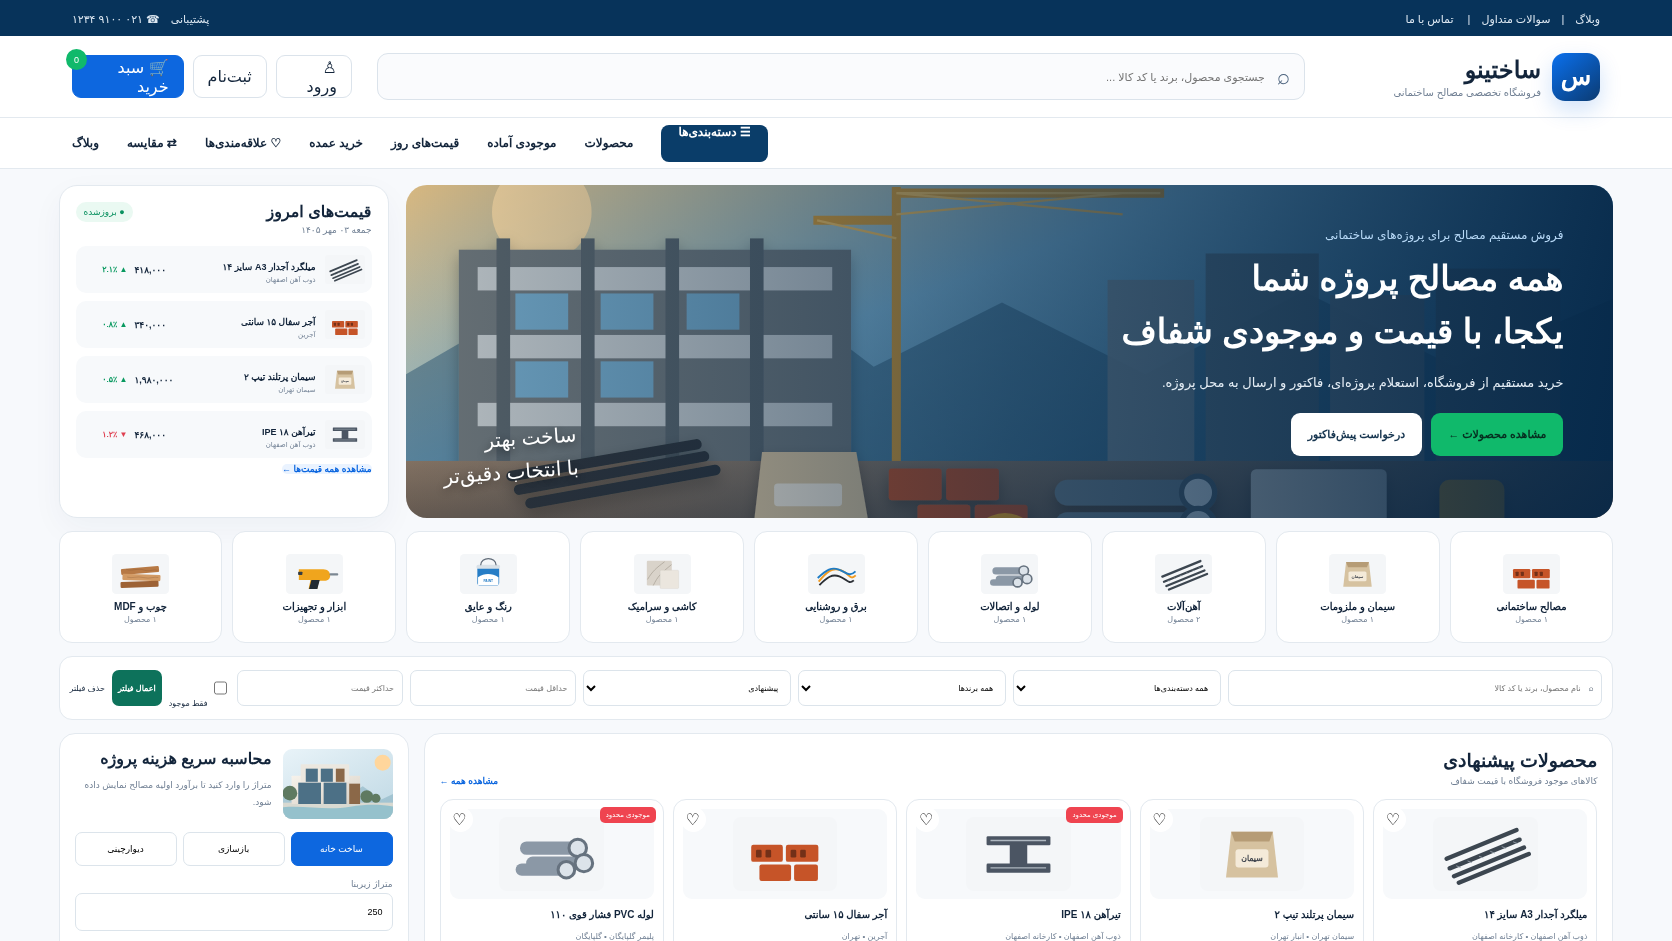
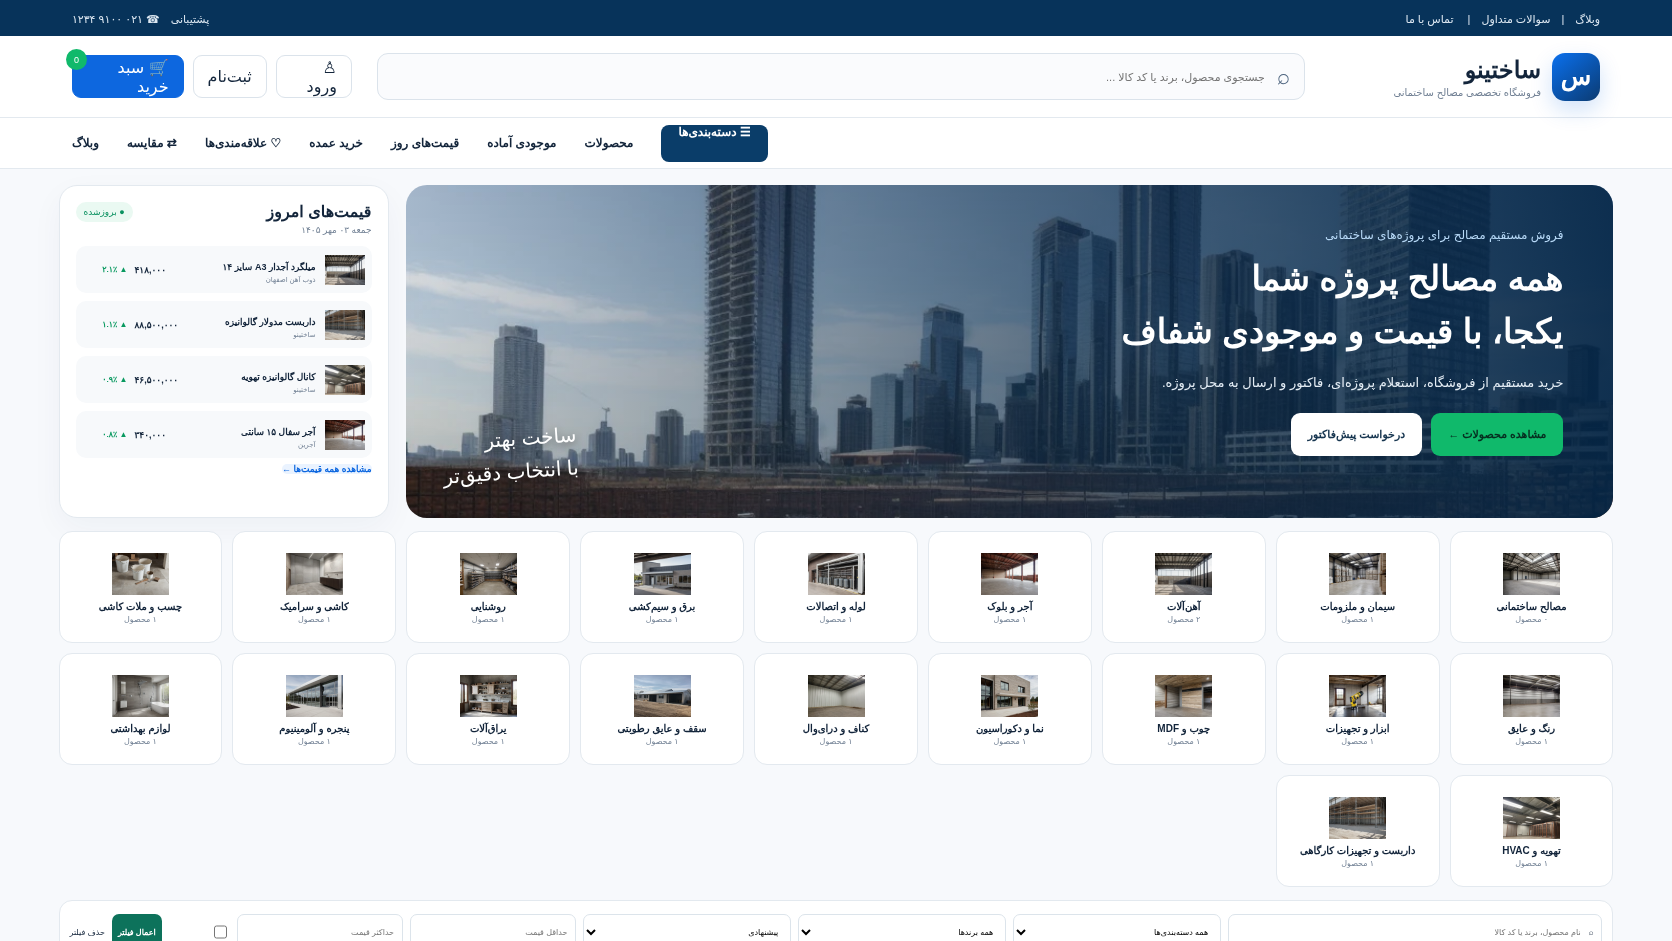
Refresh realistic construction imagery and documentation

diff --git a/docs/README.md b/docs/README.md
@@ -116,3 +116,24 @@
 - `/admin/finance` مالی
 - `/admin/reports` گزارش
 - `/admin/settings` White-label
+
+## گالری تصاویر واقعی جدید
+
+تصاویر زیر مستقیماً در `public/assets/img/real/` استفاده میشوند و نسخه مستنداتی آنها در `docs/images/real-assets/` قرار دارد.
+
+| دسته | تصویر |
+|---|---|
+| کناف و درایوال | ![Drywall](images/real-assets/drywall.webp) |
+| پنجره و آلومینیوم | ![Windows](images/real-assets/windows-aluminum.webp) |
+| سقف و عایق رطوبتی | ![Roofing](images/real-assets/roofing-waterproof.webp) |
+| لوازم بهداشتی | ![Sanitary](images/real-assets/bathroom-sanitary.webp) |
+| روشنایی و برق | ![Lighting](images/real-assets/lighting-electrical.webp) |
+| چسب و ملات کاشی | ![Tile Adhesive](images/real-assets/tile-adhesives.webp) |
+| داربست و تجهیزات کارگاهی | ![Scaffolding](images/real-assets/scaffolding.webp) |
+| یراق و اتصالات | ![Hardware](images/real-assets/hardware-fasteners.webp) |
+| تهویه و HVAC | ![HVAC](images/real-assets/hvac-ventilation.webp) |
+| نما و دکوراسیون | ![Facade](images/real-assets/facade-cladding.webp) |
+
+Hero واقعی جدید:
+
+![Hero Construction](images/real-assets/hero-construction.webp)
